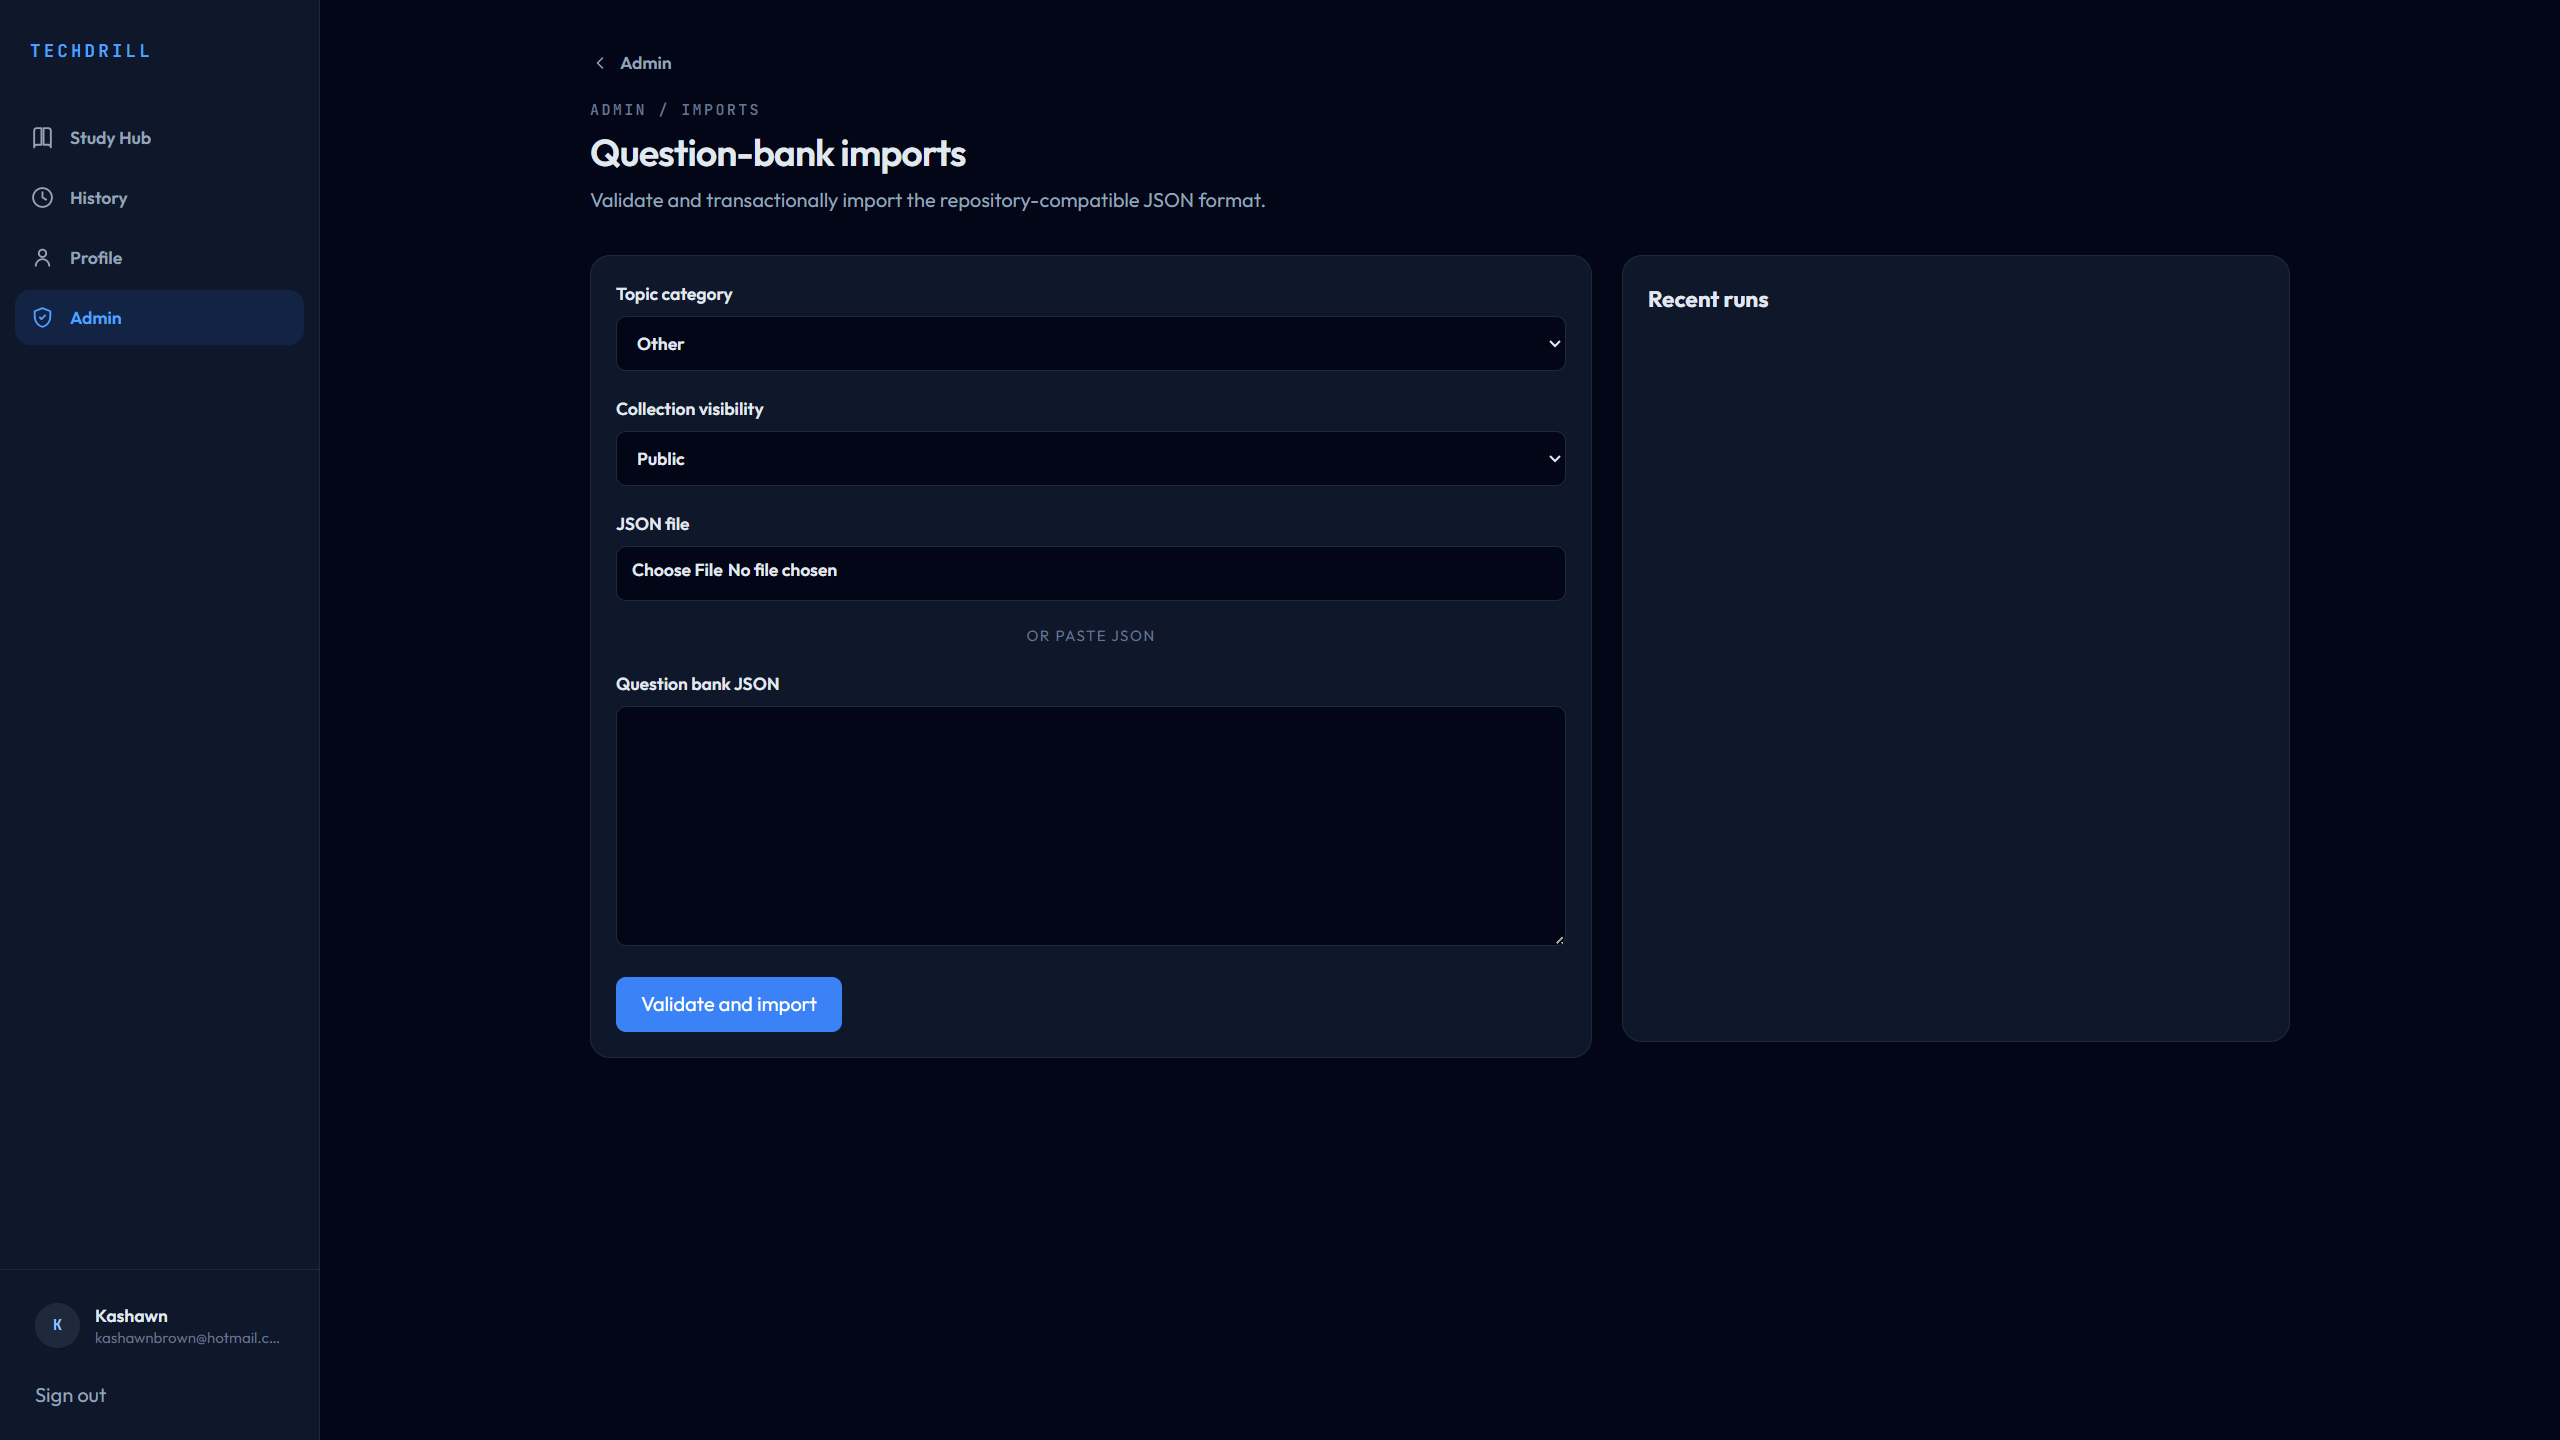
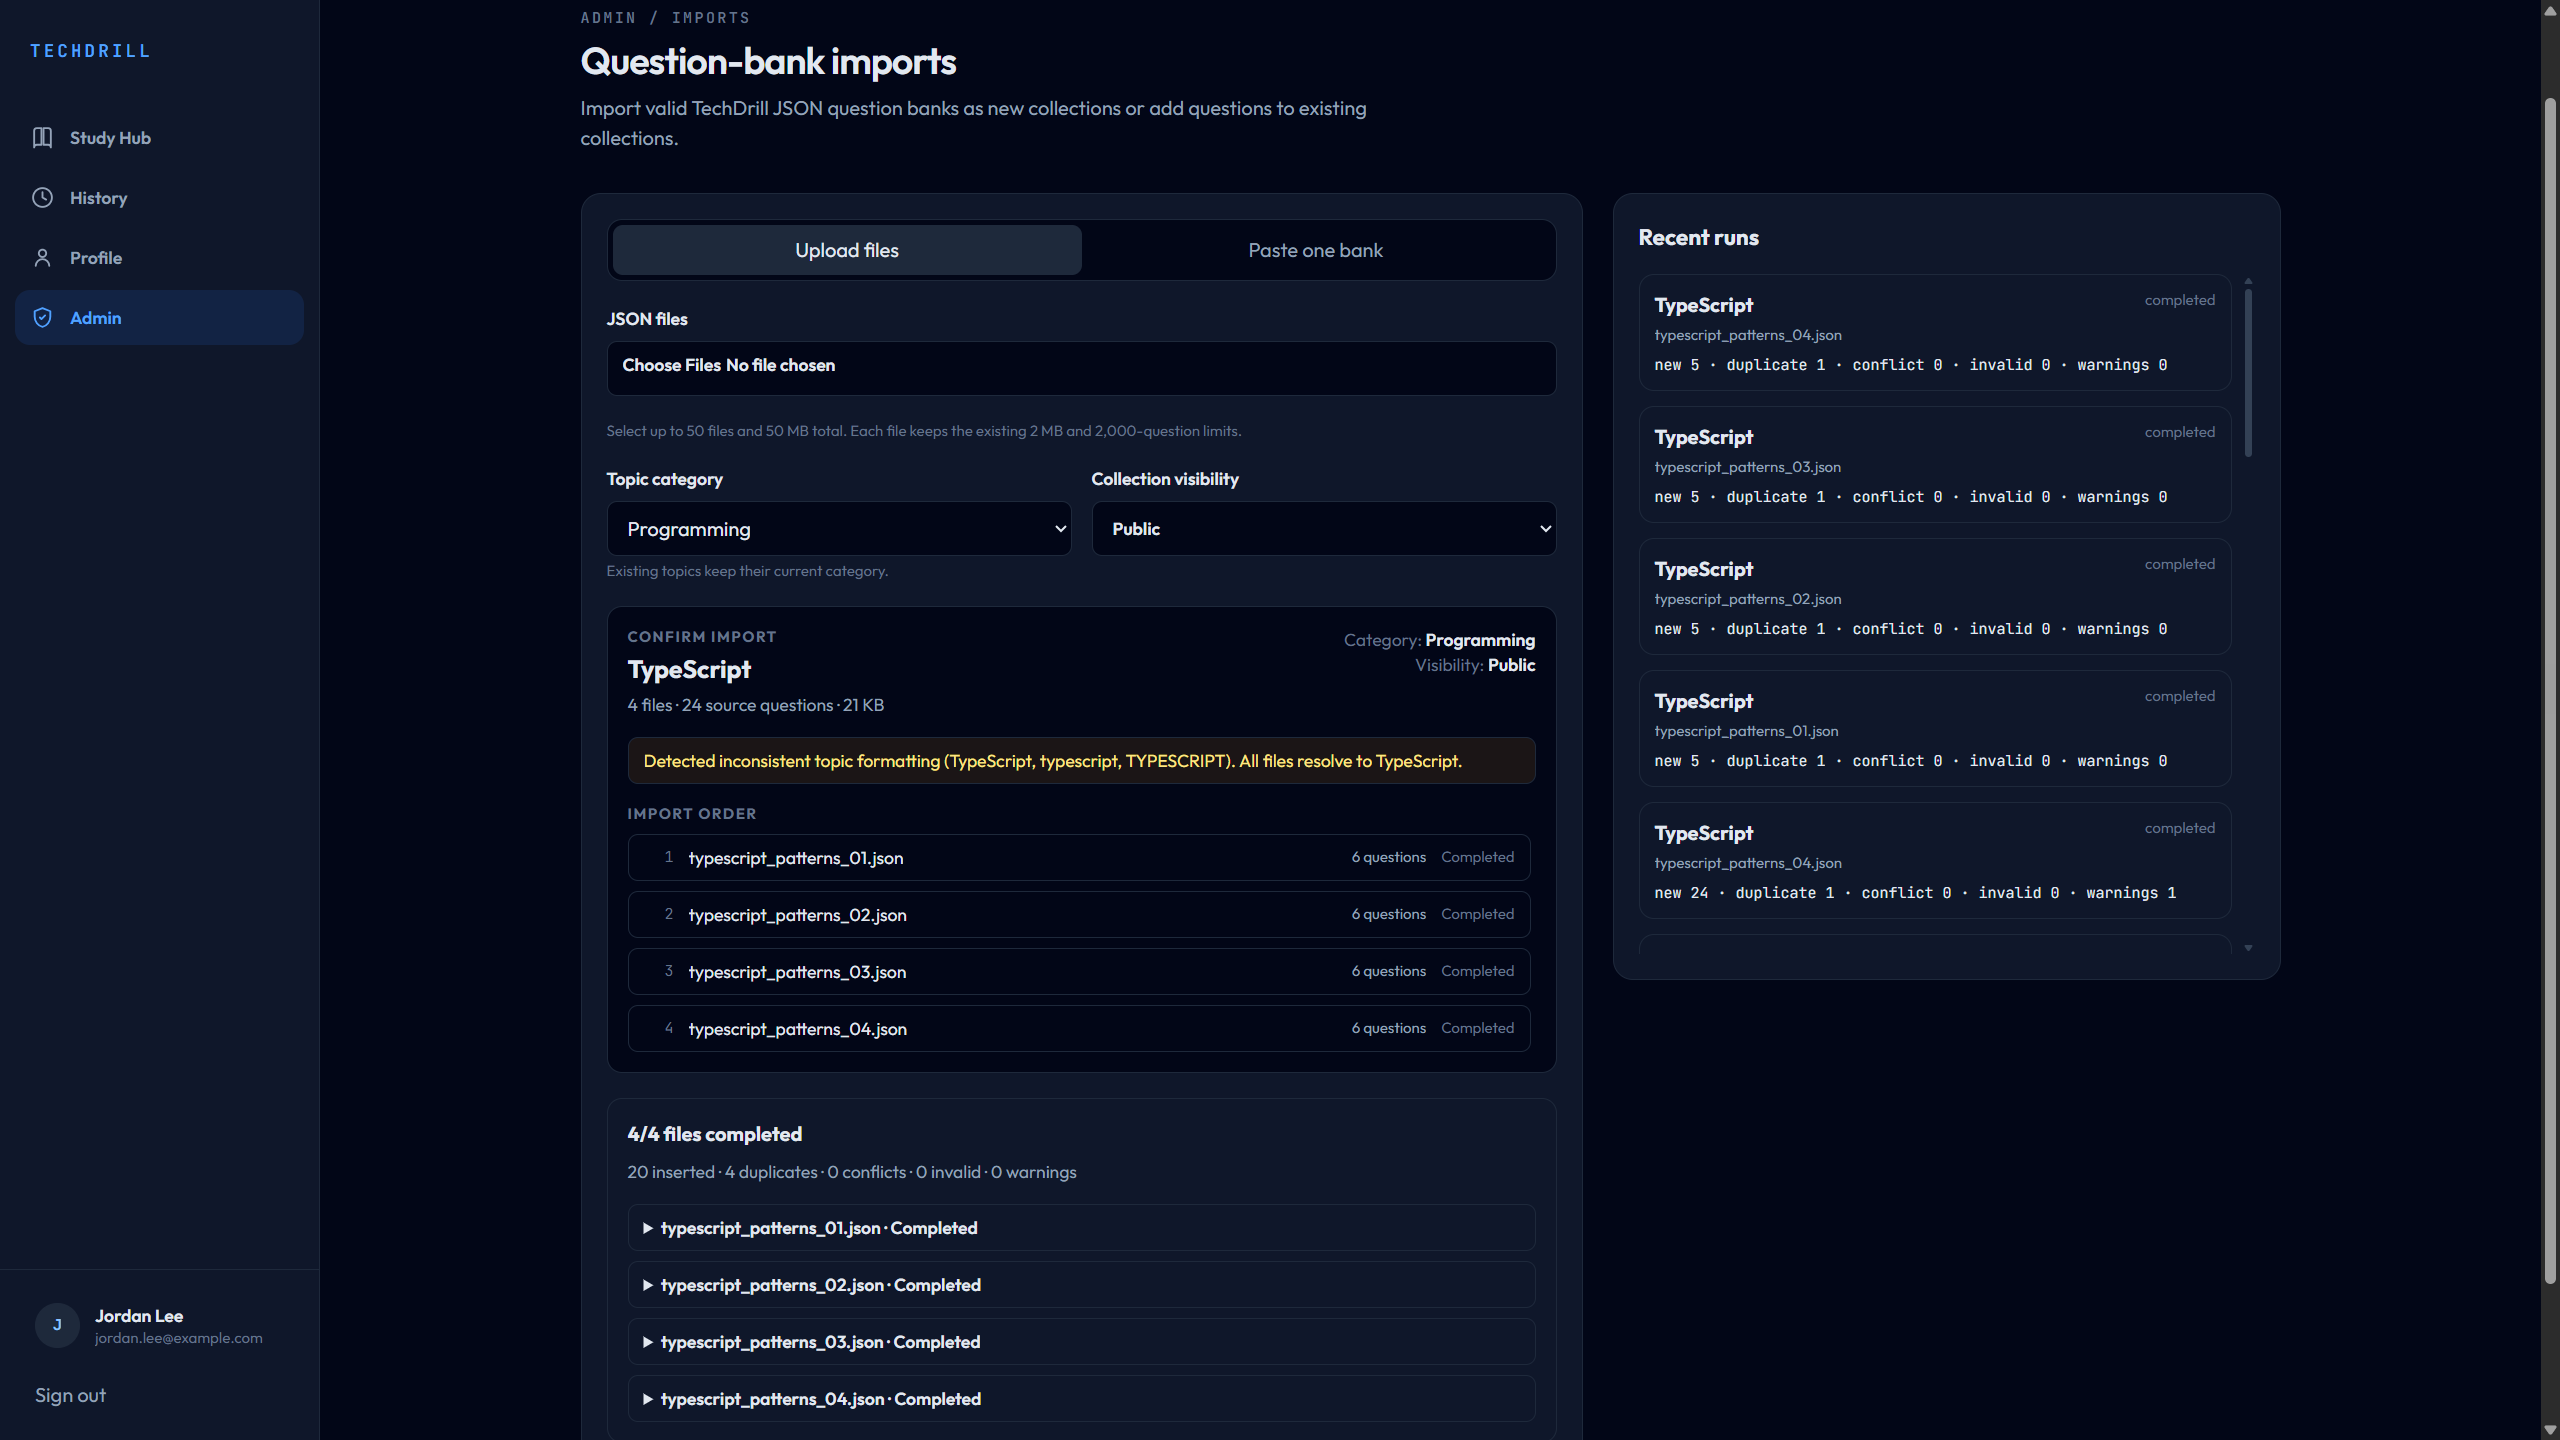
Update and Improve TechDrill

diff --git a/index.html b/index.html
@@ -73,9 +73,14 @@
   <!-- INTRO -->
   <div class="intro-banner fade-in">
     <p>
-      I&rsquo;m a full-stack <strong>software developer</strong> who specializes in backend systems &mdash; APIs, databases, auth, and cloud deployment.
+      I&rsquo;m a <strong>full-stack software developer</strong> who specializes in backend systems &mdash; APIs, databases, auth, and cloud deployment.
       I build things end-to-end and ship them to real users.
-      Most recently: <strong>Career-Tracker.ca</strong>, an AI-powered job application tracker, and <strong>Shot O&rsquo;Clock</strong>, an Android/iOS mobile app pending release.
+     
+      Most recently:
+      <strong><a href="https://career-tracker.ca" target="_blank" rel="noopener noreferrer">Career-Tracker.ca</a></strong>,  
+      an AI-powered job application tracker, and     
+      <strong><a href="https://techdrill-six.vercel.app" target="_blank" rel="noopener noreferrer">TechDrill</a></strong>,  
+      a technical reinforcement and study platform.
     </p>
   </div>
 
@@ -203,10 +208,42 @@
               <button class="gallery-arrow gallery-prev" data-gallery-prev aria-label="Previous image">&#8249;</button>
               <div class="overlay-frame">
                 <div class="gallery-track">
-                  <img class="project-screenshot gallery-image active" src="preview-images/techdrill/home.png" alt="TechDrill Home" loading="lazy"/>
-                  <img class="project-screenshot gallery-image" src="preview-images/techdrill/login.png" alt="TechDrill login page" loading="lazy"/>
-                  <img class="project-screenshot gallery-image " src="preview-images/techdrill/study-hub.png" alt="TechDrill Study Hub" loading="lazy"/>
-                  <img class="project-screenshot gallery-image" src="preview-images/techdrill/admin-import.png" alt="TechDrill question bank import workflow" loading="lazy"/>
+                  <img
+                    class="project-screenshot gallery-image active"
+                    src="preview-images/techdrill/home.png"
+                    alt="TechDrill home page"
+                    loading="lazy"
+                  />
+                  <img
+                    class="project-screenshot gallery-image"
+                    src="preview-images/techdrill/study-hub.png"
+                    alt="TechDrill Study Hub with active quizzes, favorites, and custom collections"
+                    loading="lazy"
+                  />
+                  <img
+                    class="project-screenshot gallery-image"
+                    src="preview-images/techdrill/quiz-configuration.png"
+                    alt="Configuring a personalized TechDrill quiz"
+                    loading="lazy"
+                  />
+                  <img
+                    class="project-screenshot gallery-image"
+                    src="preview-images/techdrill/active-quiz.png"
+                    alt="TechDrill quiz with immediate answer feedback and progress tracking"
+                    loading="lazy"
+                  />
+                  <img
+                    class="project-screenshot gallery-image"
+                    src="preview-images/techdrill/quiz-results.png"
+                    alt="TechDrill completed quiz results and question review"
+                    loading="lazy"
+                  />
+                  <img
+                    class="project-screenshot gallery-image"
+                    src="preview-images/techdrill/admin-import.png"
+                    alt="TechDrill multi-file question-bank import workflow"
+                    loading="lazy"
+                  />
                 </div>
               </div>
               <button class="gallery-arrow gallery-next" data-gallery-next aria-label="Next image">&#8250;</button>
@@ -220,15 +257,16 @@
             </button>
             <div class="project-overlay-panel">
               <div class="project-type-row">
-                <div class="project-type">Technical Study Platform &middot; Live</div>
+                <div class="project-type">Technical Reinforcement Platform &middot; Live</div>
               </div>
               <div class="project-header">
                 <div class="project-title">TechDrill</div>
               </div>
               <p class="project-one-liner">
-                A technical study and interview-prep platform for turning scattered technical material into structured, focused study sessions. 
-                The goal is to help achieve mastery of a topic by letting you do repeatable active-recall practice. Pick a topic, run focused quizzes, 
-                save questions, build your own study collections, and come back later without losing your progress.
+                TechDrill is a technical reinforcement and study platform that organizes technical material and topics into structured question banks for focused, flexible practice. 
+                Pick a topic and work through repeatable multiple-choice quizzes wherever and whenever you have time. Each session helps reveal gaps, strengthen recall, and move 
+                you toward mastery over time. You can also create custom targeted collections, bookmark questions, and resume quizzes across devices without losing progress.
+
               </p>
               <div class="project-stack">
                 <span class="project-tag">TypeScript</span>
@@ -239,9 +277,10 @@
                 <span class="project-tag">Vercel</span>
               </div>
               <ul class="project-bullets">
-                <li>Quizzes can be saved and resumed later, with completed history preserved even as live question banks change</li>
-                <li>Build custom collections, bookmark questions, favorite topics, and organize the study library around what you need</li>
-                <li>Large question banks are managed through a validated admin import workflow with duplicate and conflict detection</li>
+                <li>Tailor each quiz to your goals, save and resume active sessions across devices, and preserve your completed history</li>
+                <li>Bookmark key questions, favorite important collections, and build targeted custom collections using shared question banks, or your own private content.</li>
+                <li>Receive clear explanations for every answer and use persistent results to identify gaps and decide what to reinforce next.</li>
+                <li>Behind the scenes, large question banks are managed through an admin-only, duplicate-aware multi-file import workflow with preflight validation and detailed conflict and warning reports.</li>
               </ul>
             </div>
           </div>

diff --git a/styles.css b/styles.css
@@ -261,7 +261,30 @@ nav .nav-links a.active { color: var(--accent); }
   color: var(--ink2);
   max-width: 830px;
 }
-.intro-banner p strong { font-weight: 500; color: var(--ink); }
+
+.intro-banner p strong { 
+  font-weight: 500; 
+  color: var(--ink); 
+}
+
+.intro-banner p strong a {
+  color: inherit;
+  text-decoration: underline;
+  text-decoration-color: transparent;
+  text-decoration-thickness: 1px;
+  text-underline-offset: 4px;
+  transition: text-decoration-color 0.2s ease;
+}
+
+.intro-banner p strong a:hover,
+.intro-banner p strong a:focus-visible {
+  text-decoration-color: var(--accent);
+}
+
+.intro-banner p strong a:focus-visible {
+  outline: 1px solid var(--accent);
+  outline-offset: 3px;
+}
 
 /* ── Section Shell ── */
 .section { margin-bottom: 72px; }
